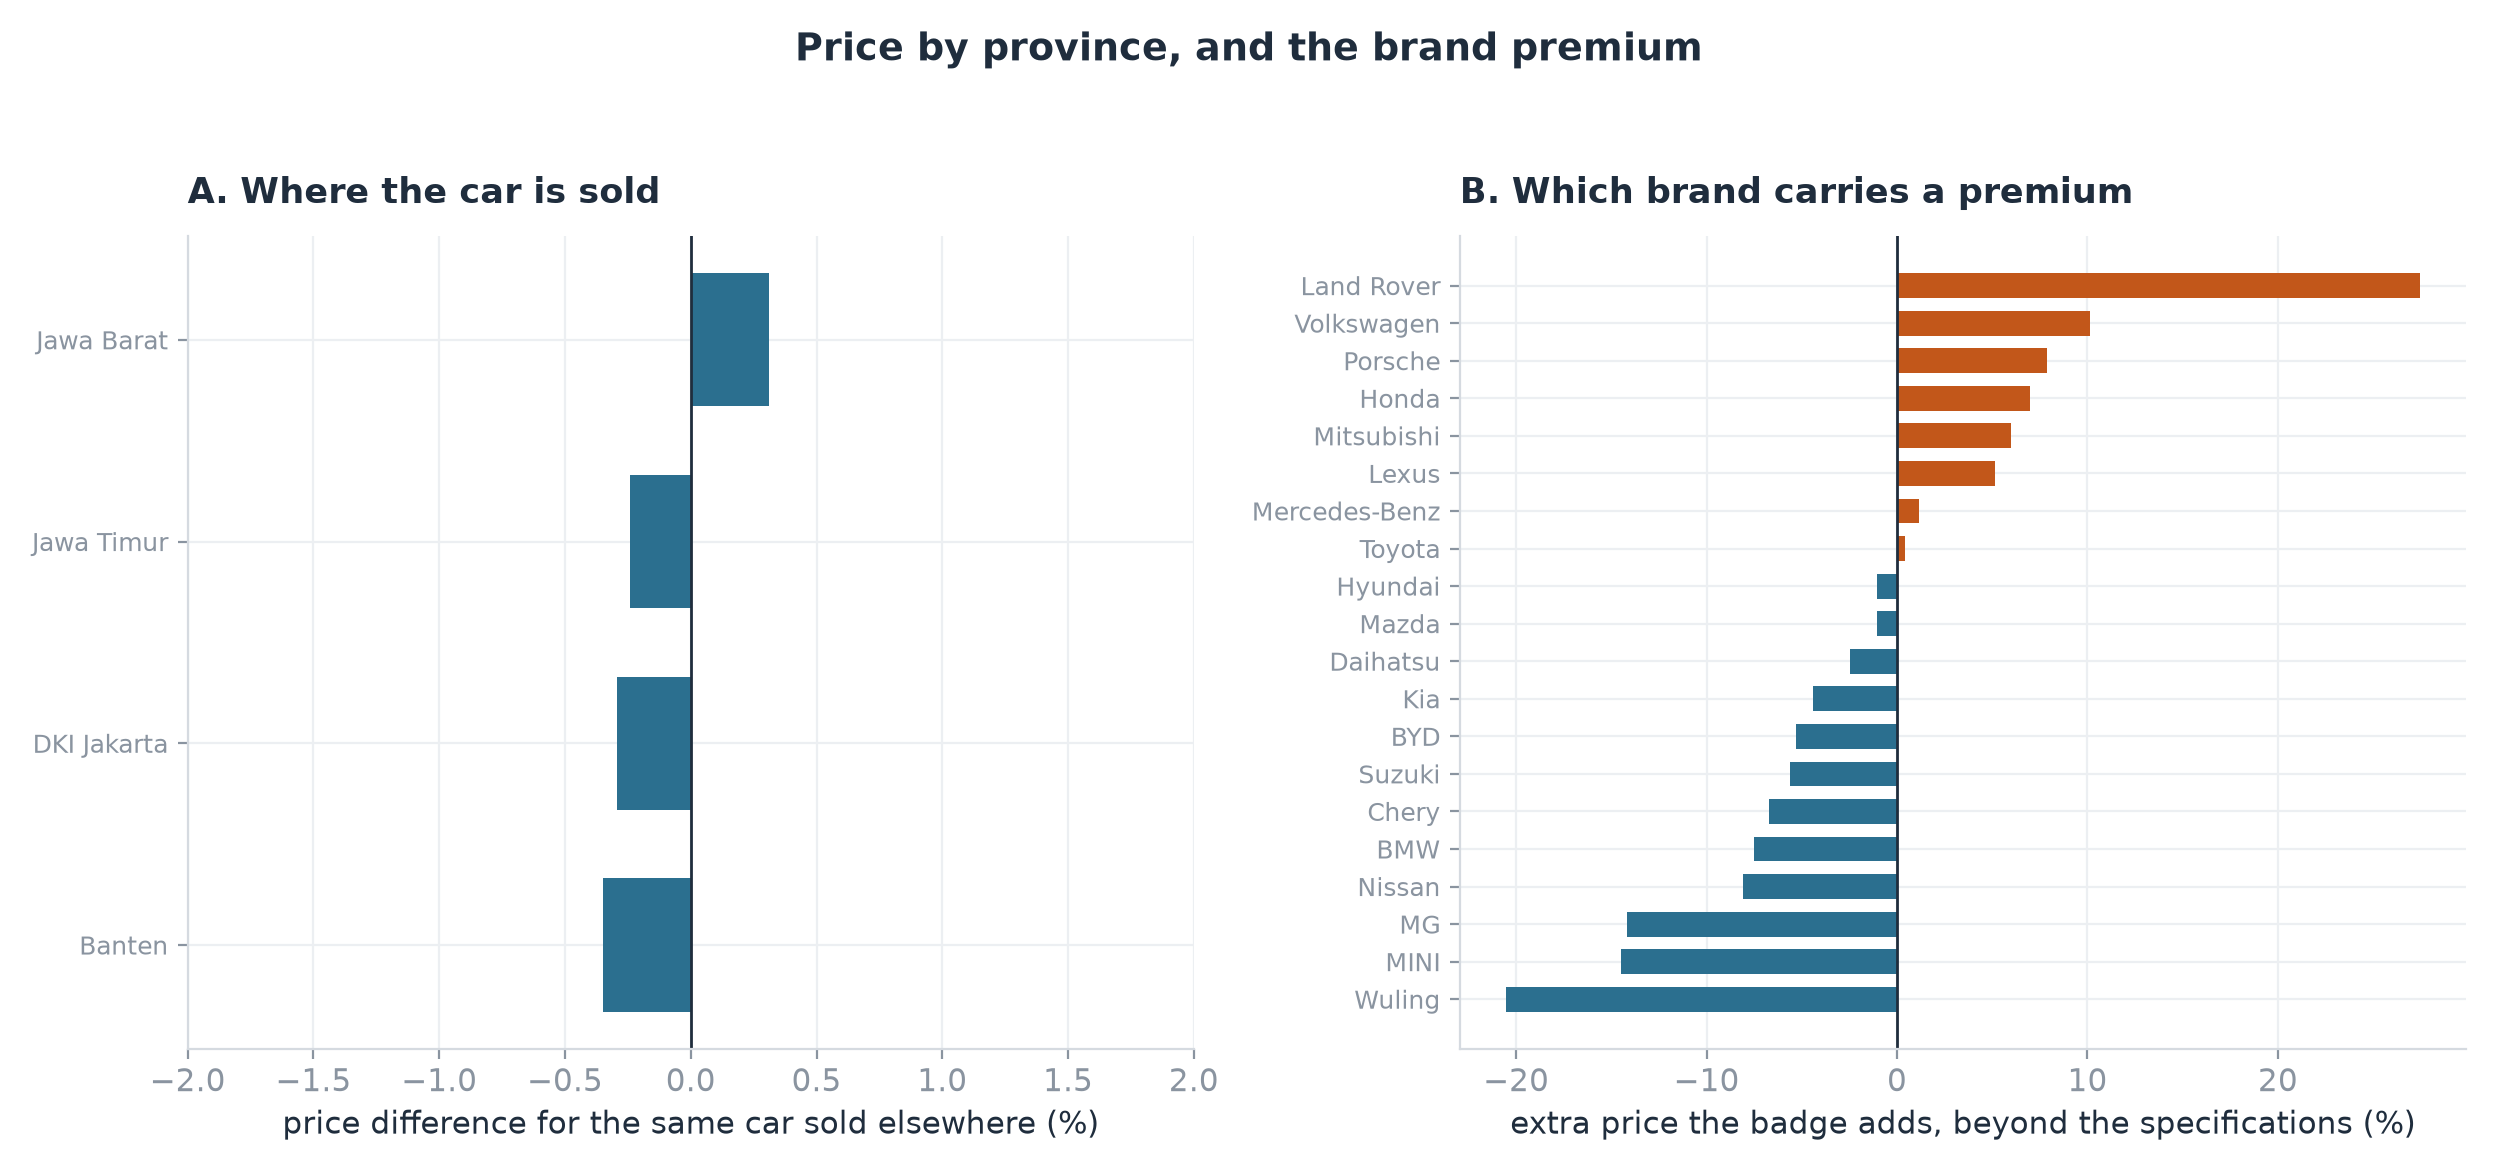
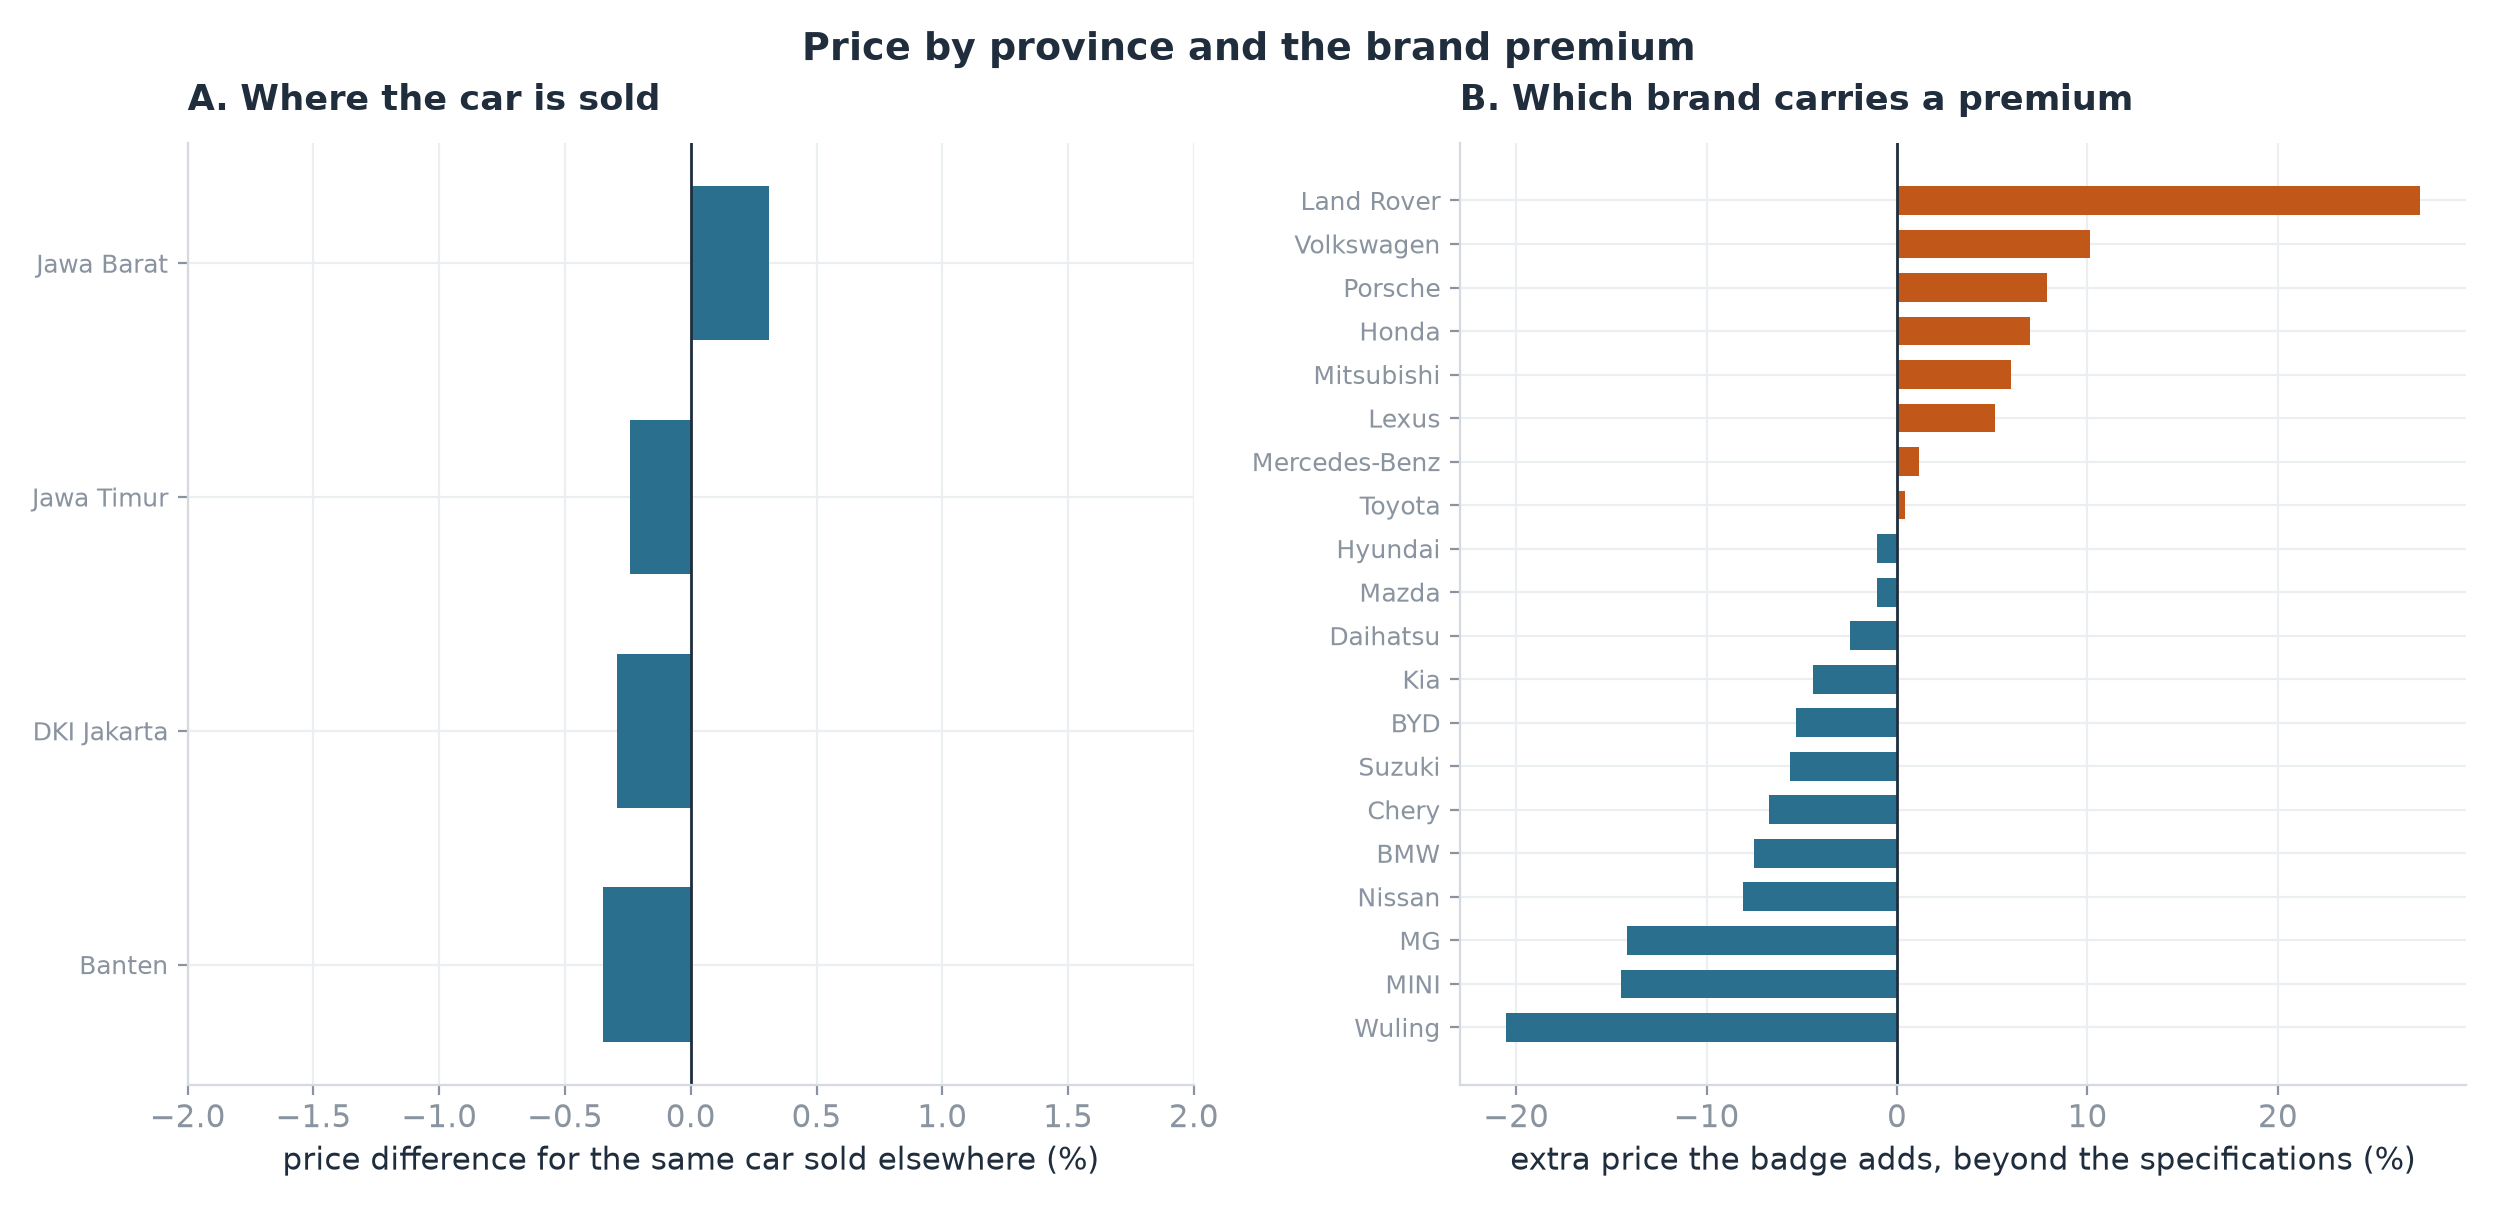
Place chart titles close to the plot and shorten two titles
Draw the title relative to the tight bounding box of the axes, so it clears the panel titles instead of colliding with them and sits right above the plot. Trim the two long titles to 'Automatic versus manual' and 'Price by mileage'.

diff --git a/projects/02-used-car-market/eda.py b/projects/02-used-car-market/eda.py
@@ -81,6 +81,27 @@ def out(msg: str = "") -> None:
     _lines.append(str(msg))
 
 
+def add_title(fig, text: str, gap: float = 0.012) -> None:
+    """Centre a title just above the axes.
+
+    fig.suptitle() reserves its own band of empty space and tight_layout's
+    rect only partly overrides it, which leaves a visible gap. Placing the
+    text relative to the axes bounding box, after the layout is final, keeps
+    the title close; the saved canvas grows upwards to fit it.
+    """
+    fig.tight_layout()
+    fig.canvas.draw()
+    inv = fig.transFigure.inverted()
+    # get_tightbbox includes each panel title, so the figure title clears them.
+    boxes = [ax.get_tightbbox(fig.canvas.get_renderer()).transformed(inv)
+             for ax in fig.axes if ax.get_visible()]
+    left = min(b.x0 for b in boxes)
+    right = max(b.x1 for b in boxes)
+    top = max(b.y1 for b in boxes)
+    fig.text((left + right) / 2, top + gap, text, ha="center", va="bottom",
+             fontsize=13.5, fontweight="bold")
+
+
 def save(fig, name: str) -> None:
     IMAGES.mkdir(exist_ok=True)
     path = IMAGES / name
@@ -156,9 +177,7 @@ def chart_brand_retention(series: pd.DataFrame) -> pd.DataFrame:
     ax.invert_yaxis()
     ax.set_xticks(range(0, 19, 3))
     ax.set_xlim(0, loss_high.max() + 3.5)
-    fig.suptitle("Value lost per year, by brand (%)", x=0.5, y=0.985,
-                 ha="center", va="top", fontsize=13.5, fontweight="bold")
-    fig.tight_layout(rect=[0, 0, 1, 0.955])
+    add_title(fig, "Value lost per year, by brand (%)")
     save(fig, "01_brand_retention.png")
     return summary
 
@@ -198,10 +217,7 @@ def chart_retention_curves(df: pd.DataFrame, series: pd.DataFrame) -> None:
     axes[0, 0].set_ylim(0, 145)
     axes[0, 0].set_xticks(range(1, 16, 2))
 
-    fig.suptitle("Price index by model and vehicle age",
-                 x=0.5, y=0.985, ha="center", va="top",
-                 fontsize=13.5, fontweight="bold")
-    fig.tight_layout(rect=[0, 0, 1, 0.95])
+    add_title(fig, "Price index by model and vehicle age")
     save(fig, "02_retention_curves.png")
 
 
@@ -283,10 +299,7 @@ def chart_transmission(df: pd.DataFrame, cells: pd.DataFrame) -> None:
     ax2.set_xlabel("how much more the automatic version asks (%), same model and year")
     ax2.set_title("B. Comparing the same model and year", loc="left", pad=12)
 
-    fig.suptitle("Automatic versus manual: all listings and matched pairs",
-                 x=0.5, y=0.985, ha="center", va="top",
-                 fontsize=13.5, fontweight="bold")
-    fig.tight_layout(rect=[0, 0, 1, 0.945])
+    add_title(fig, "Automatic versus manual")
     save(fig, "03_transmission_premium.png")
 
 
@@ -360,10 +373,7 @@ def chart_mileage(df: pd.DataFrame) -> dict:
     ax2.text(med + 1.2, 0.60, f"typical {abs(med):.1f}% cheaper", ha="left", va="center",
              fontsize=11, color=ACCENT, fontweight="bold")
 
-    fig.suptitle("Price by mileage: all listings and matched pairs",
-                 x=0.5, y=0.985, ha="center", va="top",
-                 fontsize=13.5, fontweight="bold")
-    fig.tight_layout(rect=[0, 0, 1, 0.945])
+    add_title(fig, "Price by mileage")
     save(fig, "04_mileage_illusion.png")
     return {"gaps": gaps, "raw": raw}
 
@@ -404,10 +414,7 @@ def chart_structure(df: pd.DataFrame) -> None:
     axes[2].set_xlabel("% of listings")
     axes[2].set_title("Brand origin", loc="left", pad=10)
 
-    fig.suptitle("Marketplace composition",
-                 x=0.5, y=0.985, ha="center", va="top",
-                 fontsize=13.5, fontweight="bold")
-    fig.tight_layout(rect=[0, 0, 1, 0.93])
+    add_title(fig, "Marketplace composition")
     save(fig, "05_market_structure.png")
 
 

diff --git a/projects/02-used-car-market/model.py b/projects/02-used-car-market/model.py
@@ -107,6 +107,27 @@ def out(msg: str = "") -> None:
     _lines.append(str(msg))
 
 
+def add_title(fig, text: str, gap: float = 0.012) -> None:
+    """Centre a title just above the axes.
+
+    fig.suptitle() reserves its own band of empty space and tight_layout's
+    rect only partly overrides it, which leaves a visible gap. Placing the
+    text relative to the axes bounding box, after the layout is final, keeps
+    the title close; the saved canvas grows upwards to fit it.
+    """
+    fig.tight_layout()
+    fig.canvas.draw()
+    inv = fig.transFigure.inverted()
+    # get_tightbbox includes each panel title, so the figure title clears them.
+    boxes = [ax.get_tightbbox(fig.canvas.get_renderer()).transformed(inv)
+             for ax in fig.axes if ax.get_visible()]
+    left = min(b.x0 for b in boxes)
+    right = max(b.x1 for b in boxes)
+    top = max(b.y1 for b in boxes)
+    fig.text((left + right) / 2, top + gap, text, ha="center", va="bottom",
+             fontsize=13.5, fontweight="bold")
+
+
 # ---------------------------------------------------------------------------
 # metrics
 # ---------------------------------------------------------------------------
@@ -377,10 +398,7 @@ def main() -> None:
     axb.set_xlabel("extra price the badge adds, beyond the specifications (%)")
     axb.set_title("B. Which brand carries a premium", loc="left", pad=12)
 
-    fig.suptitle("Price by province, and the brand premium",
-                 x=0.5, y=0.985, ha="center", va="top",
-                 fontsize=13.5, fontweight="bold")
-    fig.tight_layout(rect=[0, 0, 1, 0.95])
+    add_title(fig, "Price by province and the brand premium")
     fig.savefig(IMAGES / "07_location_and_brand.png", bbox_inches="tight",
                 pad_inches=0.16, facecolor="white")
     plt.close(fig)
@@ -396,9 +414,7 @@ def main() -> None:
     ax.set_yticklabels([f"{b} {m}" for b, m in pick.index], fontsize=8.5)
     ax.axvline(0, color=INK, lw=1)
     ax.set_xlabel("price compared with what the car's specifications suggest (%)")
-    fig.suptitle("Price versus specifications, by model", x=0.5, y=0.985,
-                 ha="center", va="top", fontsize=13.5, fontweight="bold")
-    fig.tight_layout(rect=[0, 0, 1, 0.955])
+    add_title(fig, "Price versus specifications, by model")
     fig.savefig(IMAGES / "08_model_bargains.png", bbox_inches="tight",
                 pad_inches=0.16, facecolor="white")
     plt.close(fig)
@@ -427,9 +443,7 @@ def main() -> None:
     ax.set_yticks(np.arange(len(top)))
     ax.set_yticklabels([DISPLAY.get(names[i], names[i]) for i in top], fontsize=10)
     ax.set_xlabel("higher value = the price depends on it more")
-    fig.suptitle("Effect of each detail on the price", x=0.5, y=0.985,
-                 ha="center", va="top", fontsize=13.5, fontweight="bold")
-    fig.tight_layout(rect=[0, 0, 1, 0.955])
+    add_title(fig, "Effect of each detail on the price")
     IMAGES.mkdir(exist_ok=True)
     fig.savefig(IMAGES / "06_feature_importance.png", bbox_inches="tight",
                 pad_inches=0.16, facecolor="white")
